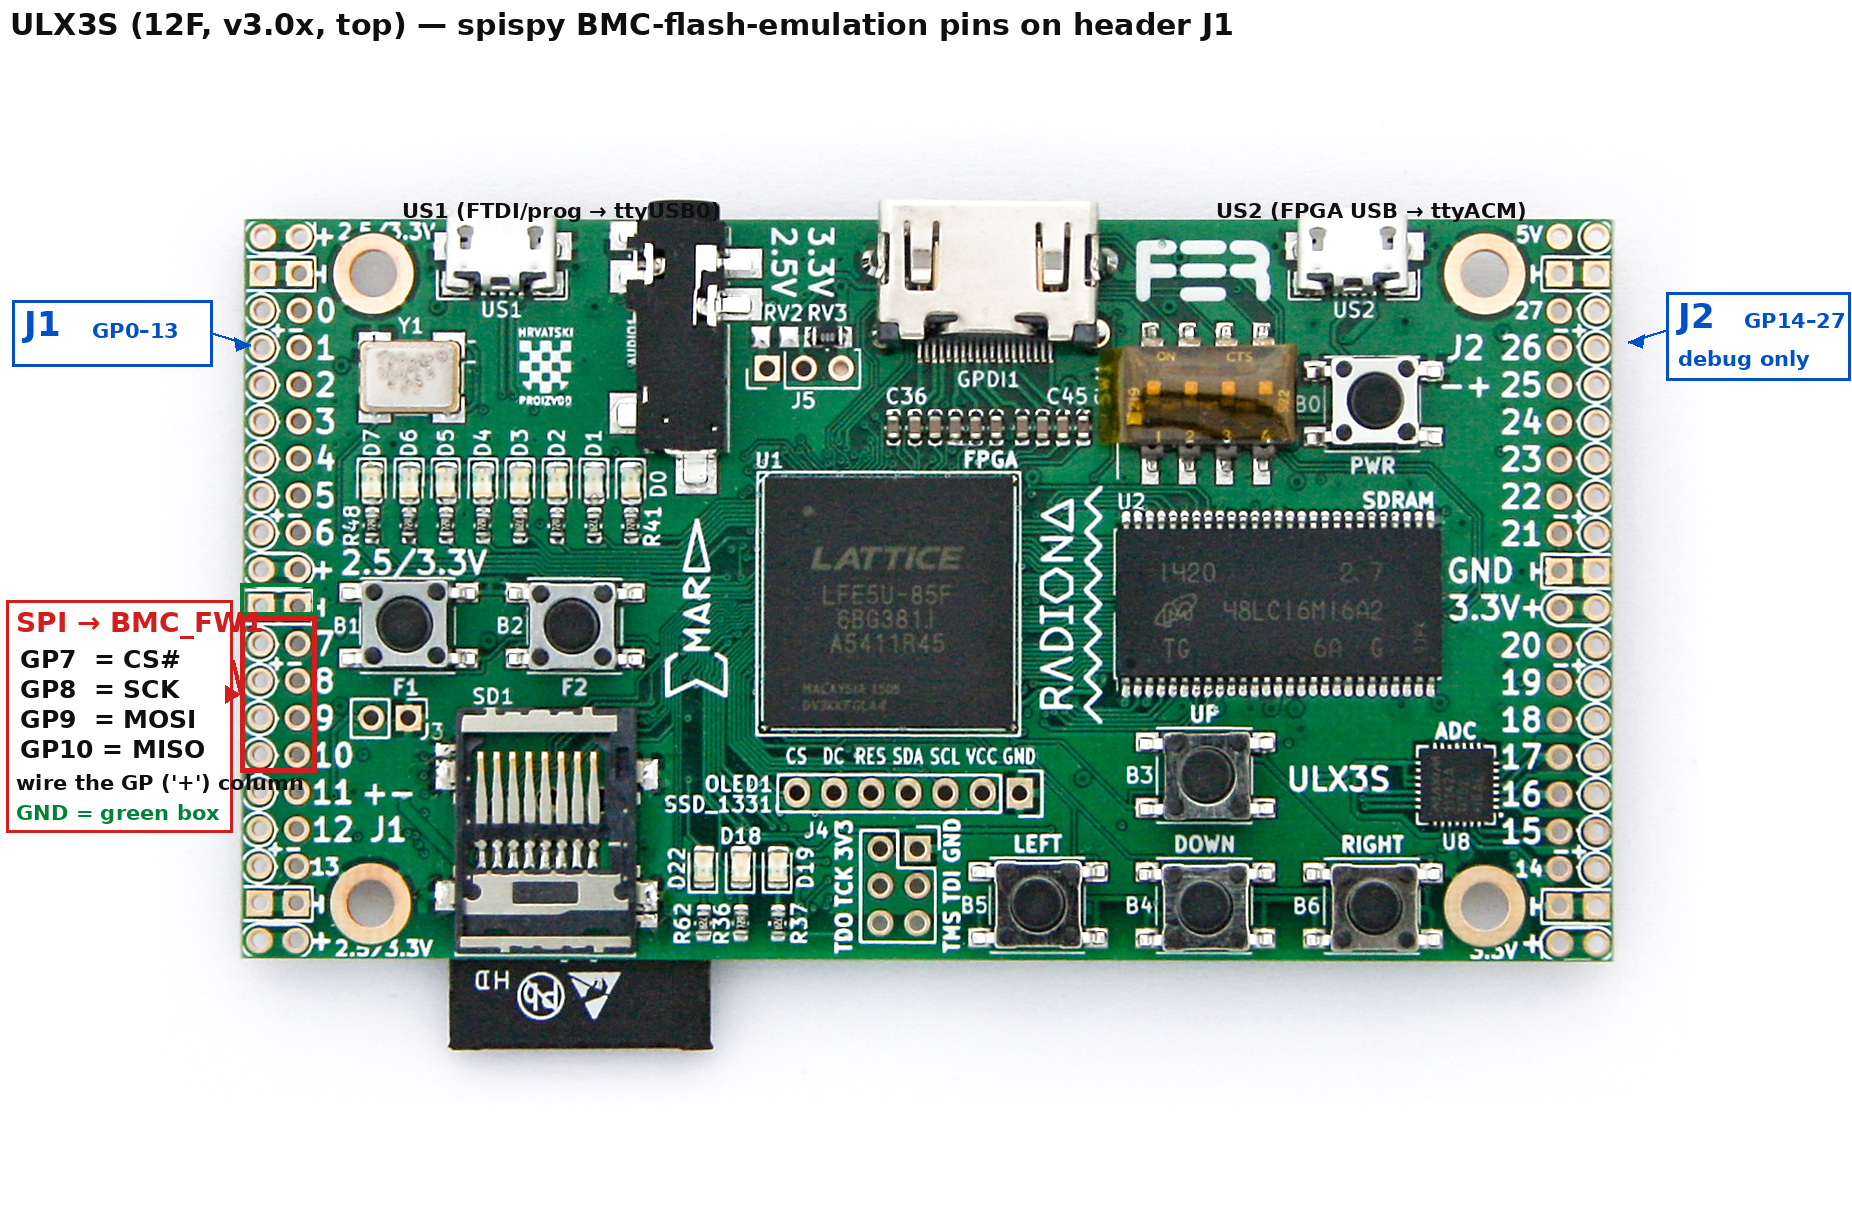
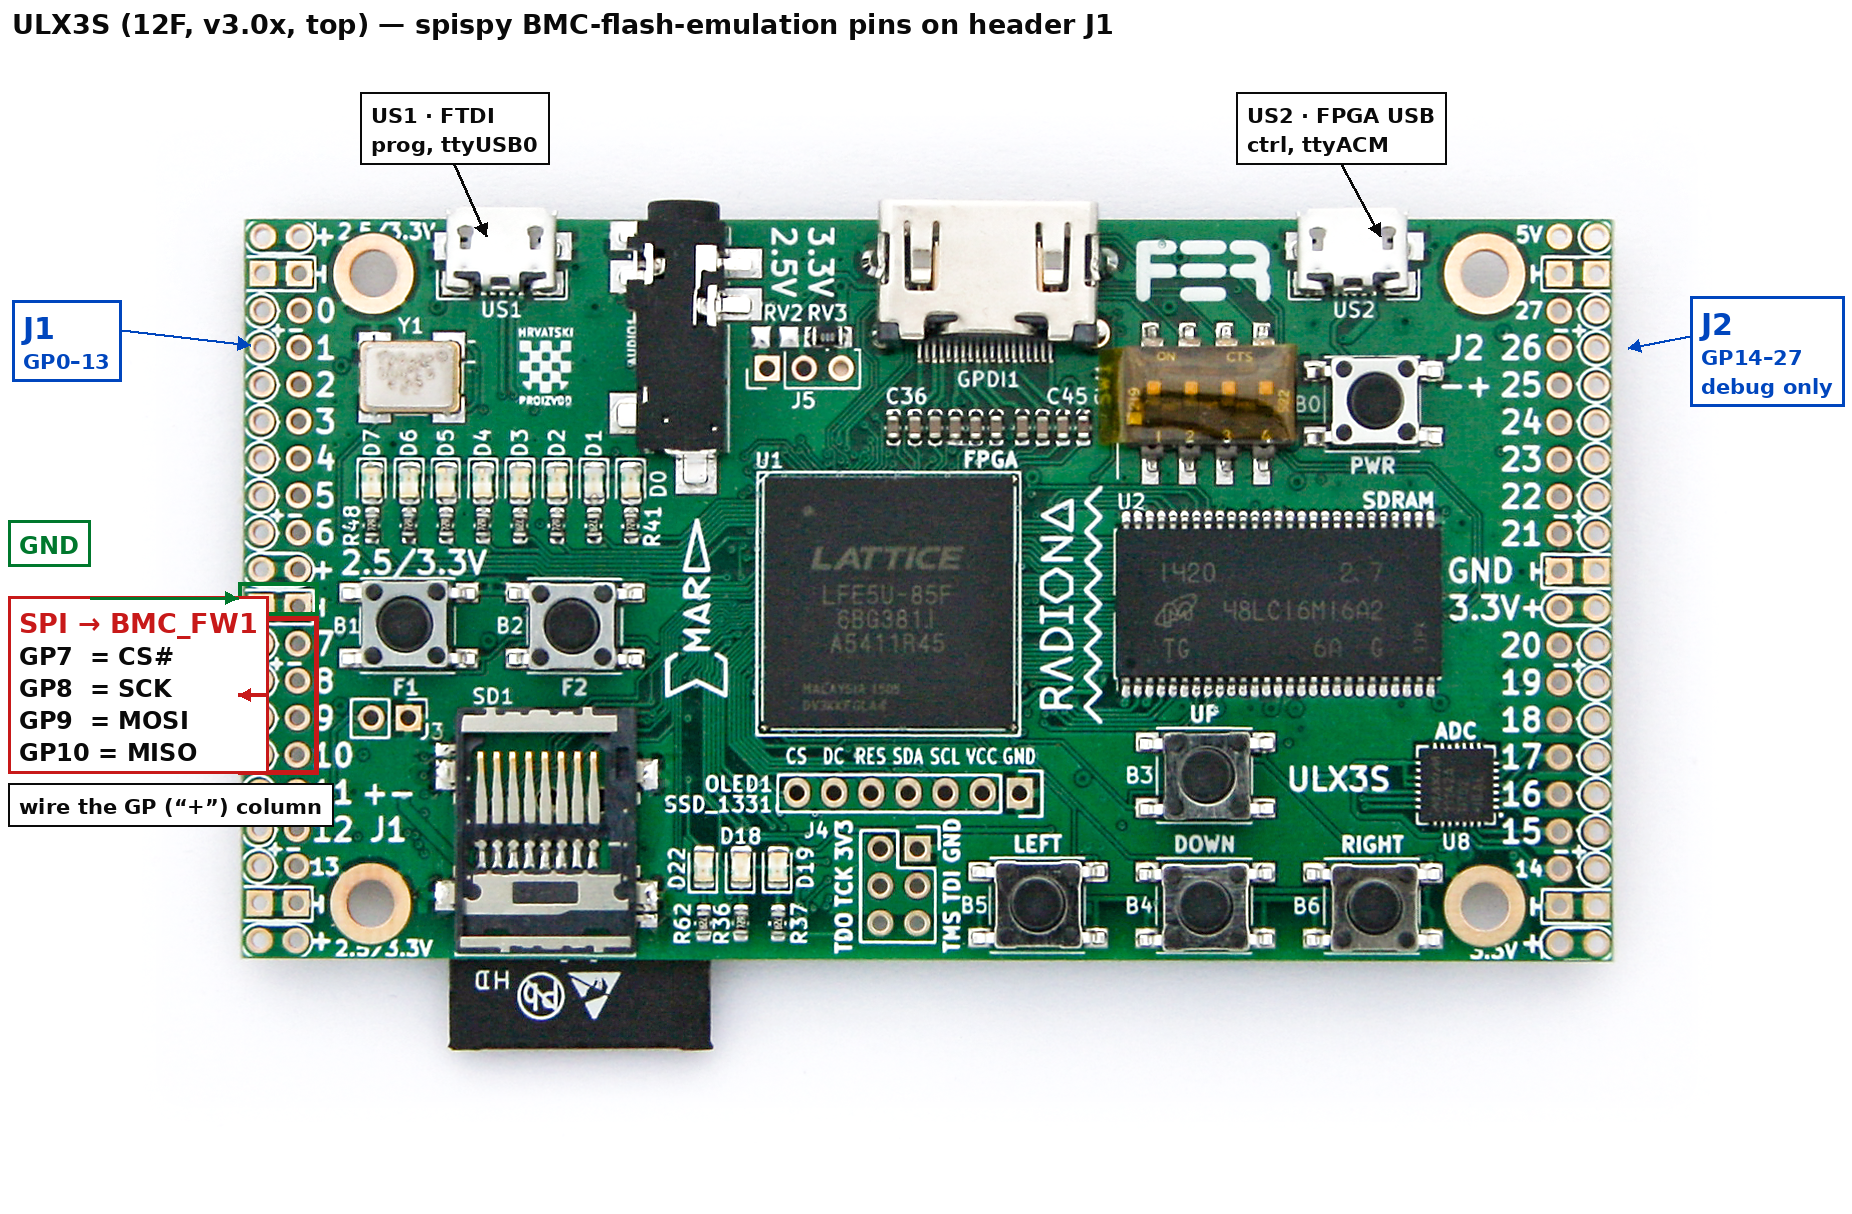
asus: fix unreadable/overflowing labels in the ULX3S annotated photo
Rewrite the annotator to size every label box to its measured text
(draw.textbbox), so nothing overflows its white background and every
label stays readable even over the board:

- SPI callout, GND, J1/J2, and the "wire the GP" note are now
  auto-sized white chips with arrows, not fixed-size boxes the text
  spilled out of.
- The US1/US2 labels move from black-on-board text (which overlapped the
  silkscreen and was unreadable) into white chips in the top margin with
  leader lines to the connectors.

diff --git a/asus-kgpe-d16-firmware/diagrams/make-ulx3s-spispy-annotated.py b/asus-kgpe-d16-firmware/diagrams/make-ulx3s-spispy-annotated.py
@@ -7,7 +7,11 @@
 Annotates the ULX3S v3.0.3 top-view photo (from the open-source-hardware
 emard/ulx3s repo) with the spispy BMC-flash-emulation pins on header J1:
 GP7=CS#, GP8=SCK, GP9=MOSI, GP10=MISO, plus the adjacent GND pair (schematic
-pins 21/22). Pin-row y-coordinates were read off a 5x grid overlay of the photo
+pins 21/22).
+
+Every text label is drawn inside a white box that is *measured to fit the text*
+(so nothing overflows and every label is readable even where it sits over the
+board). Pin-row y-coordinates were read off a 5x grid overlay of the photo
 (pin7 approx y635 ... pin10 approx y755; pad columns approx x256 / x296).
 
 Run:  uv run make-ulx3s-spispy-annotated.py
@@ -35,47 +39,88 @@ def font(sz, bold=True):
 
 
 RED, BLUE, GREEN, BLACK, WHITE = (
-    (210, 30, 30), (0, 80, 200), (0, 130, 55), (15, 15, 15), (255, 255, 255),
+    (200, 25, 25), (0, 70, 190), (0, 120, 45), (10, 10, 10), (255, 255, 255),
 )
-f_title, f_big, f_med, f_sm, f_tiny = (font(30), font(34), font(28), font(25), font(21))
+F_TITLE, F_H, F_BODY, F_SM = font(30), font(27), font(24), font(21)
 
-spi_box = (240, 616, 316, 772)   # pins 7..10 (both pad columns)
-gnd_box = (240, 583, 316, 615)   # GND pair 21/22 (square 'H' pads above pin 7)
+
+def text_w(text, fnt):
+    b = d.textbbox((0, 0), text, font=fnt)
+    return b[2] - b[0]
+
+
+def chip(x, y, lines, border, anchor="tl", pad=11, gap=8, lw=3):
+    """Draw a white box sized to fit `lines` = [(text, font, color), ...].
+
+    `anchor` places (x, y) at the top-left ('tl') or top-right ('tr') corner.
+    Returns the box rect (x0, y0, x1, y1) so leader lines can attach.
+    """
+    w = max(text_w(t, f) for t, f, _ in lines) + 2 * pad
+    h = sum(f.size for _, f, _ in lines) + gap * (len(lines) - 1) + 2 * pad
+    x0 = x - w if anchor == "tr" else x
+    d.rectangle((x0, y, x0 + w, y + h), fill=WHITE, outline=border, width=lw)
+    cy = y + pad
+    for t, f, c in lines:
+        d.text((x0 + pad, cy), t, fill=c, font=f)
+        cy += f.size + gap
+    return (x0, y, x0 + w, y + h)
+
+
+def arrow(p0, p1, color, width=4, head=14):
+    """Line from p0 to p1 with a filled triangular arrowhead at p1."""
+    import math
+
+    d.line([p0, p1], fill=color, width=width)
+    ang = math.atan2(p1[1] - p0[1], p1[0] - p0[0])
+    left = (p1[0] - head * math.cos(ang - 0.5), p1[1] - head * math.sin(ang - 0.5))
+    right = (p1[0] - head * math.cos(ang + 0.5), p1[1] - head * math.sin(ang + 0.5))
+    d.polygon([p1, left, right], fill=color)
+
+
+# ---- highlight boxes on the pins (both pad columns) ----
+spi_box = (238, 616, 318, 774)   # pins 7..10
+gnd_box = (238, 582, 318, 615)   # GND pair 21/22 (square pads above pin 7)
 d.rectangle(spi_box, outline=RED, width=5)
 d.rectangle(gnd_box, outline=GREEN, width=4)
 
-px0, py0, px1 = 6, 600, 232
-d.rectangle((px0, py0, px1, py0 + 232), fill=WHITE, outline=RED, width=3)
-d.text((px0 + 10, py0 + 6), "SPI → BMC_FW1", fill=RED, font=f_med)
-for i, t in enumerate(["GP7  = CS#", "GP8  = SCK", "GP9  = MOSI", "GP10 = MISO"]):
-    d.text((px0 + 14, py0 + 44 + i * 30), t, fill=BLACK, font=f_sm)
-d.text((px0 + 10, py0 + 170), "wire the GP ('+') column", fill=BLACK, font=f_tiny)
-d.text((px0 + 10, py0 + 200), "GND = green box", fill=GREEN, font=f_tiny)
-ay = (spi_box[1] + spi_box[3]) // 2
-d.line((px1, py0 + 60, spi_box[0], ay), fill=RED, width=4)
-d.polygon([(spi_box[0], ay), (spi_box[0] - 15, ay - 9), (spi_box[0] - 15, ay + 9)], fill=RED)
+# ---- SPI callout chip (left margin) + arrow to the red box ----
+spi_chip = chip(8, 596, [
+    ("SPI → BMC_FW1", F_H, RED),
+    ("GP7  = CS#", F_BODY, BLACK),
+    ("GP8  = SCK", F_BODY, BLACK),
+    ("GP9  = MOSI", F_BODY, BLACK),
+    ("GP10 = MISO", F_BODY, BLACK),
+], RED)
+arrow((spi_chip[2], (spi_box[1] + spi_box[3]) // 2),
+      (spi_box[0], (spi_box[1] + spi_box[3]) // 2), RED)
 
-# J1 label chip in the left white margin, arrow to the header
-d.rectangle((12, 300, 212, 366), fill=WHITE, outline=BLUE, width=3)
-d.text((24, 304), "J1", fill=BLUE, font=f_big)
-d.text((92, 318), "GP0–13", fill=BLUE, font=f_tiny)
-d.line((212, 333, 250, 345), fill=BLUE, width=3)
-d.polygon([(250, 345), (234, 337), (236, 351)], fill=BLUE)
+# ---- GND chip (left margin) + arrow to the green box ----
+gnd_chip = chip(8, 520, [("GND", F_BODY, GREEN)], GREEN)
+arrow((gnd_chip[2], (gnd_box[1] + gnd_box[3]) // 2),
+      (gnd_box[0], (gnd_box[1] + gnd_box[3]) // 2), GREEN, width=3)
 
-# J2 label chip in the right white margin, arrow to the header
-d.rectangle((1666, 292, 1850, 380), fill=WHITE, outline=BLUE, width=3)
-d.text((1678, 296), "J2", fill=BLUE, font=f_big)
-d.text((1744, 308), "GP14–27", fill=BLUE, font=f_tiny)
-d.text((1678, 346), "debug only", fill=BLUE, font=f_tiny)
-d.line((1666, 330, 1628, 342), fill=BLUE, width=3)
-d.polygon([(1628, 342), (1644, 334), (1642, 348)], fill=BLUE)
+# ---- "wire the GP (+) column" note, below the SPI chip ----
+chip(8, spi_chip[3] + 10, [("wire the GP (“+”) column", F_SM, BLACK)], BLACK, lw=2)
 
-d.text((402, 198), "US1 (FTDI/prog → ttyUSB0)", fill=BLACK, font=f_tiny)
-d.text((1216, 198), "US2 (FPGA USB → ttyACM)", fill=BLACK, font=f_tiny)
+# ---- J1 / J2 header labels (margins) + arrows to the headers ----
+j1 = chip(12, 300, [("J1", F_TITLE, BLUE), ("GP0–13", F_SM, BLUE)], BLUE)
+arrow((j1[2], 330), (250, 345), BLUE, width=3)
+j2 = chip(1844, 296, [("J2", F_TITLE, BLUE), ("GP14–27", F_SM, BLUE),
+                      ("debug only", F_SM, BLUE)], BLUE, anchor="tr")
+arrow((j2[0], 336), (1628, 348), BLUE, width=3)
 
-d.rectangle((0, 0, img.width, 42), fill=WHITE)
-d.text((10, 7), "ULX3S (12F, v3.0x, top) — spispy BMC-flash-emulation pins on header J1",
-       fill=BLACK, font=f_title)
+# ---- USB port labels (top margin) + leader lines to the connectors ----
+u1 = chip(360, 92, [("US1 · FTDI", F_SM, BLACK),
+                    ("prog, ttyUSB0", F_SM, BLACK)], BLACK, lw=2)
+arrow(((u1[0] + u1[2]) // 2, u1[3]), (486, 236), BLACK, width=3)
+u2 = chip(1236, 92, [("US2 · FPGA USB", F_SM, BLACK),
+                     ("ctrl, ttyACM", F_SM, BLACK)], BLACK, lw=2)
+arrow(((u2[0] + u2[2]) // 2, u2[3]), (1380, 236), BLACK, width=3)
+
+# ---- title strip ----
+d.rectangle((0, 0, img.width, 46), fill=WHITE)
+d.text((12, 8), "ULX3S (12F, v3.0x, top) — spispy BMC-flash-emulation pins on header J1",
+       fill=BLACK, font=F_H)
 
 img.save(OUT)
 print("wrote", OUT, img.size)
